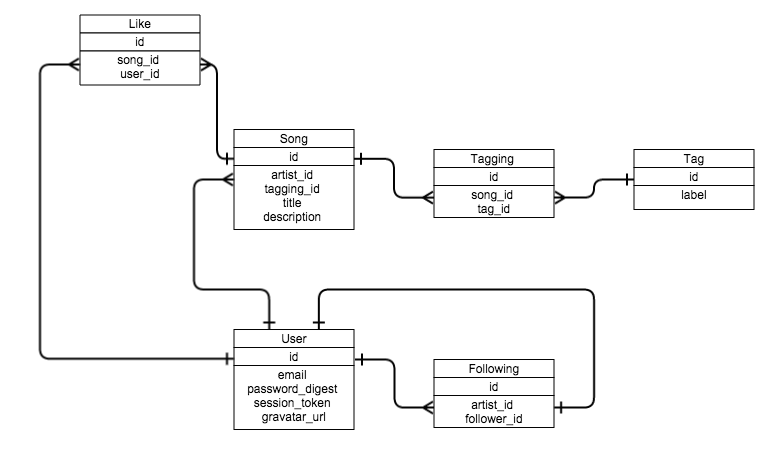
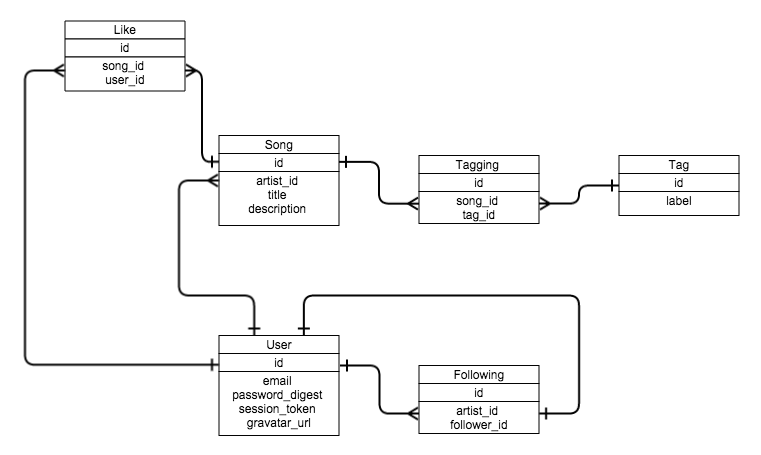
updated schema

Changed region(s): [[0.0302, 0.0312, 0.7556, 0.9666], [0.7556, 0.3118, 0.9974, 0.4989], [0.7556, 0.6548, 0.7858, 0.9042]]

diff --git a/app/assets/javascripts/arpeggio.js b/app/assets/javascripts/arpeggio.js
@@ -4,7 +4,7 @@ window.Arpeggio = {
   Views: {},
   Routers: {},
   initialize: function() {
-    alert('Hello from Backbone!');
+    
   }
 };
 

diff --git a/db/schema.rb b/db/schema.rb
@@ -11,7 +11,7 @@
 #
 # It's strongly recommended that you check this file into your version control system.
 
-ActiveRecord::Schema.define(version: 20150203192716) do
+ActiveRecord::Schema.define(version: 20150203211331) do
 
   # These are extensions that must be enabled in order to support this database
   enable_extension "plpgsql"
@@ -22,6 +22,19 @@ ActiveRecord::Schema.define(version: 20150203192716) do
     t.string   "description", null: false
     t.datetime "created_at",  null: false
     t.datetime "updated_at",  null: false
+  end
+
+  create_table "taggings", force: :cascade do |t|
+    t.integer  "song_id",    null: false
+    t.integer  "tag_id",     null: false
+    t.datetime "created_at", null: false
+    t.datetime "updated_at", null: false
+  end
+
+  create_table "tags", force: :cascade do |t|
+    t.string   "label",      null: false
+    t.datetime "created_at", null: false
+    t.datetime "updated_at", null: false
   end
 
   create_table "users", force: :cascade do |t|

diff --git a/app/controllers/sessions_controller.rb b/app/controllers/sessions_controller.rb
@@ -7,9 +7,11 @@ class SessionsController < ApplicationController
     @user = User.find_by_credentials(params[:user][:username],
     params[:user][:password])
     if @user
+      puts "were in!"
       login(@user)
-      redirect_to posts_url
+      redirect_to root_url
     else
+      puts "nope"
       @user = User.new
       render :new
     end

diff --git a/app/controllers/api/song_controller.rb b/app/controllers/api/song_controller.rb
@@ -1,0 +1,22 @@
+class SongController < ApplicationController
+  def index
+
+  end
+
+  def new
+
+  end
+
+  def update
+
+  end
+
+  def destroy
+
+  end
+
+  private
+  def user_params
+    params.require(:user).permit(:title, :description, :user_id)
+  end
+end

diff --git a/app/models/user.rb b/app/models/user.rb
@@ -28,6 +28,7 @@ class User < ActiveRecord::Base
   end
 
   def self.find_by_credentials(username, password)
+    debugger
     user = User.find_by(username: username)
     return nil if user.nil?
     user.is_password?(password) ? user : nil

diff --git a/app/controllers/users_controller.rb b/app/controllers/users_controller.rb
@@ -8,7 +8,7 @@ class UsersController < ApplicationController
 
     if @user.save
       login(@user)
-      redirect_to posts_url
+      redirect_to root_url
     else
       @user = User.new
       render :new
